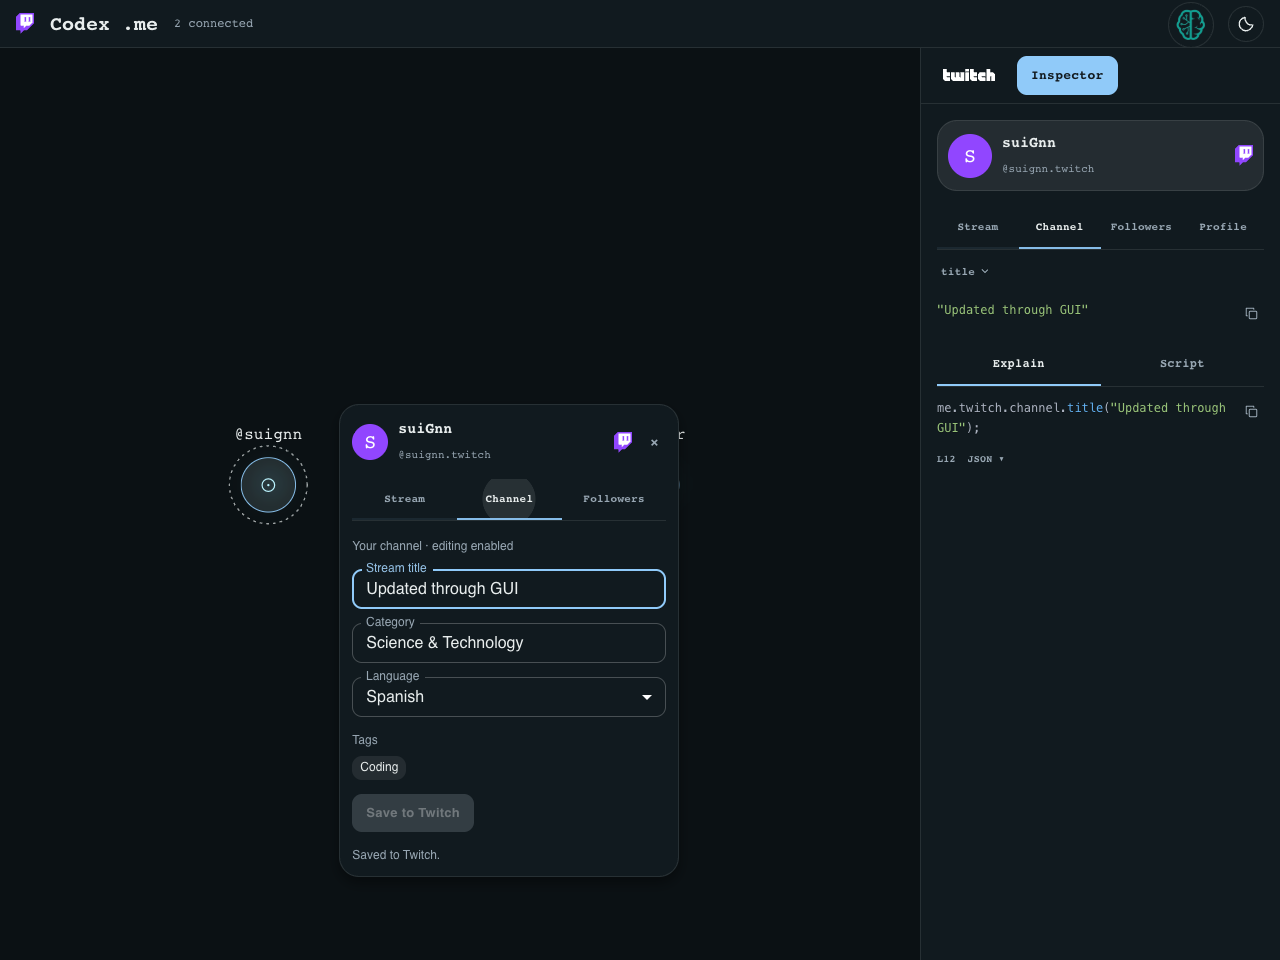
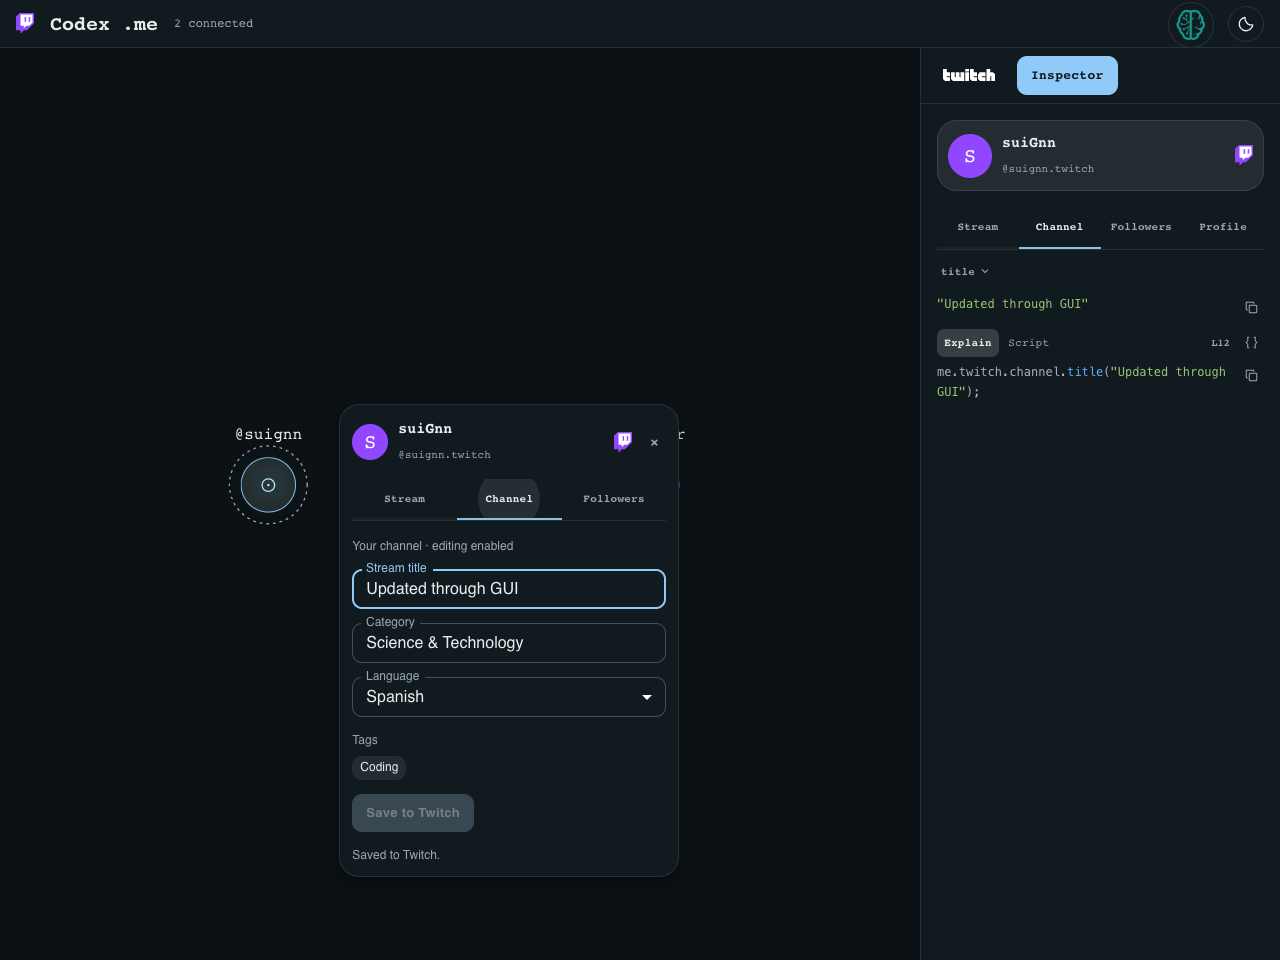
refactor: compact inspector modes source and trace controls

Changed region(s): [[0.7188, 0.3125, 0.9688, 0.4375], [0.9688, 0.3125, 1.0, 0.3438]]

diff --git a/overlay/kernel-console.js b/overlay/kernel-console.js
@@ -1,3 +1,4 @@
+import { KernelToolbar } from './kernel-toolbar.js';
 import { sourceDeclarations } from './kernel-source.js';
 const R = window.React, h = R.createElement, G = window.GUI;
 const { Box, Typography, Button } = G.Atoms;
@@ -24,7 +25,6 @@ const code = (source, language, numbered = false) => h(InlineCode, { source, lan
 function CodeLine({ value }) {
   return h(InlineCode, { source: JSON.stringify(value), language: 'json', copyLabel: 'Copy output' });
 }
-const tabs = ['Explain', 'Script'];
 function useQuery(kernel, path, operation, enabled) {
   const [result, setResult] = R.useState(null);
   const nodes = kernel.graph?.nodes || [], leaf = nodes.some(node => node.path === path);
@@ -62,7 +62,7 @@ export function KernelOutput({ kernel, path, compact = false }) {
   const output = useQuery(kernel, path, 'run', leaf);
   const state = kernel.sections?.[path.split('.')[1]];
   if (!leaf || state?.status === 'error') return h(Typography, { role: state?.status === 'error' ? 'alert' : 'status', sx: { ...mono, fontSize: 11, color: state?.status === 'error' ? 'error.main' : 'text.secondary', mb: 1 } }, state?.error || 'Loading Twitch…');
-  return h(Box, { component: 'section', 'aria-label': 'Output', sx: { ...codeStyle, mb: compact ? 0 : 2 } }, renderResult(output, 'run', kernel, path, leaf));
+  return h(Box, { component: 'section', 'aria-label': 'Output', sx: { ...codeStyle, mb: compact ? 0 : 1 } }, renderResult(output, 'run', kernel, path, leaf));
 }
 export function KernelConsole({ kernel, path }) {
   const [tab, setTab] = R.useState('Explain'), [jsonOpen, setJsonOpen] = R.useState(false);
@@ -79,21 +79,13 @@ export function KernelConsole({ kernel, path }) {
   const prefix = `console-${kernel.id}`;
   return h(Box, { 'data-kernel-console': kernel.id, sx: codeStyle },
     h(KernelOutput, { kernel, path }),
-    h(Box, { role: 'tablist', 'aria-label': 'Kernel views', sx: { display: 'flex', borderBottom: 1, borderColor: 'divider', mb: 1.5 } },
-      tabs.map(label => h(Button, { key: label, role: 'tab', id: `${prefix}-${label}`, 'aria-selected': tab === label, 'aria-controls': `${prefix}-panel`, tabIndex: tab === label ? 0 : -1,
-        onClick: () => setTab(label), onKeyDown: event => {
-          const index = tabs.indexOf(label);
-          const next = ['ArrowRight', 'ArrowLeft'].includes(event.key) ? (index + 1) % tabs.length : event.key === 'Home' ? 0 : event.key === 'End' ? tabs.length - 1 : null;
-          if (next === null) return;
-          event.preventDefault(); setTab(tabs[next]); event.currentTarget.parentElement.querySelectorAll('[role="tab"]')[next].focus();
-        }, sx: { ...mono, flex: 1, minWidth: 0, textTransform: 'none', fontSize: 12, borderRadius: 0, borderBottom: 2, borderColor: tab === label ? 'primary.main' : 'transparent', color: tab === label ? 'text.primary' : 'text.secondary' } }, label))),
+    h(KernelToolbar, { prefix, mode: tab, onMode: setTab, lines, location,
+      onSource: () => { setJump(value => value + 1); setTab('Script'); },
+      jsonOpen, onJson: () => setJsonOpen(value => !value) }),
     h(Box, { role: 'tabpanel', id: `${prefix}-panel`, 'aria-labelledby': `${prefix}-${tab}`, tabIndex: 0 },
       tab === 'Script' ? h(Box, { ref: scriptRef, 'data-me-script': kernel.id, 'data-source-lines': declarations.map(item => item.line).join(','), sx: highlights }, code(kernel.script, 'javascript', true))
         : h(R.Fragment, null,
-          declarations.length ? h(Box, { 'data-explain-source': path, 'data-source-lines': lines.join(','), sx: { mb: 1.5 } },
-            code(declarations.map(item => item.source).join('\n'), 'javascript'),
-            h(Box, { sx: { display: 'flex', alignItems: 'center', gap: 1, mt: 0.5 } },
-              h(G.Atoms.Tooltip, { title: `View in Script · ${location}`, describeChild: true }, h(Button, { size: 'small', 'aria-label': 'View in Script', onClick: () => { setJump(declarations[0].line); setTab('Script'); }, sx: { ...mono, minWidth: 0, px: 0, fontSize: 10, color: 'text.secondary', textTransform: 'none' } }, lines.length === 1 ? `L${lines[0]}` : `L${lines[0]}–${lines.at(-1)}`)),
-              h(Button, { size: 'small', 'aria-label': 'Explain JSON', 'aria-expanded': jsonOpen, onClick: () => setJsonOpen(value => !value), sx: { ...mono, minWidth: 0, px: 0.5, fontSize: 10, color: 'text.secondary', textTransform: 'none' } }, jsonOpen ? 'JSON ▴' : 'JSON ▾'))) : null,
+          declarations.length ? h(Box, { 'data-explain-source': path, 'data-source-lines': lines.join(','), sx: { mb: jsonOpen ? 1.25 : 0 } },
+            h(InlineCode, { source: declarations.map(item => item.source).join('\n'), language: 'javascript', copyLabel: 'Copy expression' })) : null,
           (jsonOpen || !declarations.length || explanation?.error) ? renderResult(explanation, 'explain', kernel, path, leaf) : null)));
 }

diff --git a/overlay/kernel-toolbar.js b/overlay/kernel-toolbar.js
@@ -1,0 +1,23 @@
+const R = window.React, h = R.createElement, G = window.GUI;
+const { Box, Button, Tooltip } = G.Atoms;
+const modes = ['Explain', 'Script'];
+const mono = { fontFamily: '"IBM Plex Mono", ui-monospace, monospace' };
+const action = { minWidth: 26, height: 28, p: 0.5, color: 'text.secondary' };
+
+// One compact row: readable mode choice, source location, optional raw trace.
+export function KernelToolbar({ prefix, mode, onMode, lines, location, onSource, jsonOpen, onJson }) {
+  return h(Box, { 'data-kernel-toolbar': true, sx: { display: 'flex', alignItems: 'center', gap: 0.5, minHeight: 28, mb: 0.75 } },
+    h(Box, { role: 'tablist', 'aria-label': 'Kernel views', sx: { display: 'inline-flex', gap: 0.25 } },
+      modes.map((label, index) => h(Button, { key: label, role: 'tab', id: `${prefix}-${label}`, 'aria-selected': mode === label, 'aria-controls': `${prefix}-panel`, tabIndex: mode === label ? 0 : -1,
+        onClick: () => onMode(label), onKeyDown: event => {
+          const next = ['ArrowRight', 'ArrowLeft'].includes(event.key) ? (index + 1) % modes.length : event.key === 'Home' ? 0 : event.key === 'End' ? modes.length - 1 : null;
+          if (next === null) return;
+          event.preventDefault(); onMode(modes[next]); event.currentTarget.parentElement.querySelectorAll('[role="tab"]')[next].focus();
+        }, sx: { ...mono, minWidth: 0, height: 28, px: 0.9, py: 0.25, fontSize: 11, lineHeight: 1.4, fontWeight: mode === label ? 600 : 400, textTransform: 'none', borderRadius: 0.75, bgcolor: mode === label ? 'action.selected' : 'transparent', color: mode === label ? 'text.primary' : 'text.secondary' } }, label))),
+    h(Box, { sx: { flex: 1 } }),
+    lines.length ? h(Tooltip, { title: `Go to source · ${location}`, describeChild: true },
+      h(Button, { size: 'small', 'aria-label': 'View in Script', onClick: onSource, sx: { ...action, ...mono, fontSize: 10, textTransform: 'none', px: 0.5 } }, lines.length === 1 ? `L${lines[0]}` : `L${lines[0]}–${lines.at(-1)}`)) : null,
+    mode === 'Explain' && lines.length ? h(Tooltip, { title: jsonOpen ? 'Hide JSON' : 'Show JSON', describeChild: true },
+      h(Button, { size: 'small', 'aria-label': 'Explain JSON', 'aria-expanded': jsonOpen, onClick: onJson, sx: { ...action, bgcolor: jsonOpen ? 'action.selected' : 'transparent' } },
+        h('svg', { width: 15, height: 15, viewBox: '0 0 20 20', fill: 'none', stroke: 'currentColor', strokeWidth: 1.4, 'aria-hidden': true }, h('path', { d: 'M7 3H5v5l-2 2 2 2v5h2M13 3h2v5l2 2-2 2v5h-2' })))) : null);
+}

diff --git a/overlay/kernel-graph.js b/overlay/kernel-graph.js
@@ -10,7 +10,7 @@ export function KnowledgeGraph({ graph, owner = '', path, selectPath, showFields
   const root = `twitch.${section}`, fields = pathChildren(graph?.nodes || [], root), parts = pathParts(path).slice(2);
   const prefix = R.useId();
   const go = value => { setMenu(null); selectPath(value); };
-  return h(Box, { 'data-knowledge-graph': true, 'data-kernel-path': path, 'data-kernel-owner': owner, 'data-me-address': `me://${owner}/${pathParts(path).join('/')}`, sx: { minWidth: 0, mb: 1.5 } },
+  return h(Box, { 'data-knowledge-graph': true, 'data-kernel-path': path, 'data-kernel-owner': owner, 'data-me-address': `me://${owner}/${pathParts(path).join('/')}`, sx: { minWidth: 0, mb: showFields ? 0.75 : 1.5 } },
     h(Box, { role: 'tablist', 'aria-label': 'Twitch sections', sx: { display: 'grid', gridTemplateColumns: `repeat(${resources.length},minmax(0,1fr))`, borderBottom: 1, borderColor: 'divider' } },
       resources.map((name, index) => h(Button, { key: name, role: 'tab', id: `${prefix}-${name}`, 'aria-controls': `${prefix}-fields`, 'aria-selected': section === name, tabIndex: section === name ? 0 : -1,
         onClick: () => go(`twitch.${name}`), onKeyDown: event => {

diff --git a/README.md b/README.md
@@ -55,7 +55,7 @@ The profile and bubble card use the label `@<login>.twitch` with the actual avat
 
 Clicking a bubble opens its controls beside the node, synchronized with the inspector. Both share the selected kernel/path. Focusing a channel field, clicking a follower count or clicking live/offline status selects its matching inspector leaf. Selecting that leaf in the inspector highlights the matching GUI control, without replacing the form. Stream is initially selected, showing Live now or Offline from the actual API response. Closing the card preserves selection. These controls remain outside the transparent OBS source.
 
-The inspector alone presents formatted whole-section JSON or a compact leaf value, with an icon-only Copy action and no surrounding code card. Its optional **All fields** dropdown narrows inspection to one leaf. It automatically reads `me(path)` from the existing server kernel. **Explain / Script** tabs below the output show the actual `me.explain(path)` JSON or the complete construction source, including expression, derivation and metadata from this.me 4.2.1. Tab selection persists across paths and kernels; obsolete query results are hidden. Explain is initially selected; arrow keys and Home/End navigate the tabs. Native GUI syntax highlighting is preserved without code-block headers, borders or backgrounds; copy actions use the overlapping-squares icon with accessible tooltips. Explain presents the matching syntax directly on the inspector background. Its compact **L…** link identifies the original source line(s), and **JSON** reveals the unmodified native explanation only when requested. The location link (**View in Script** to assistive technology) opens the complete, numbered script and scrolls to the highlighted declaration. Locations refer to the currently displayed reproducible construction script; they are not native VM execution frames or historical call stacks. Unrelated profile/section declarations are omitted from the Explain excerpt. The construction script is not re-executed, and arbitrary code/eval is not accepted. This object inspector is separate from GUI's general interface inspector and browser DOM developer tools. Face following changes presentation only.
+The inspector alone presents formatted whole-section JSON or a compact leaf value, with an icon-only Copy action and no surrounding code card. Its optional **All fields** dropdown narrows inspection to one leaf. It automatically reads `me(path)` from the existing server kernel. Compact **Explain / Script** controls below the output show the actual `me.explain(path)` JSON or the complete construction source, including expression, derivation and metadata from this.me 4.2.1. Tab selection persists across paths and kernels; obsolete query results are hidden. Explain is initially selected; arrow keys and Home/End navigate the tabs. Native GUI syntax highlighting is preserved without code-block headers, borders or backgrounds; copy actions use the overlapping-squares icon with accessible tooltips. Explain presents the matching syntax directly on the inspector background. Its compact **L…** link identifies the original source line(s), and the **{}** icon reveals the unmodified native explanation only when requested. The location link (**View in Script** to assistive technology) opens the complete, numbered script and scrolls to the highlighted declaration. Locations refer to the currently displayed reproducible construction script; they are not native VM execution frames or historical call stacks. Unrelated profile/section declarations are omitted from the Explain excerpt. The construction script is not re-executed, and arbitrary code/eval is not accepted. This object inspector is separate from GUI's general interface inspector and browser DOM developer tools. Face following changes presentation only.
 
 ### Permissions and optional channel editing
 

diff --git a/evidence/SESSION.md b/evidence/SESSION.md
@@ -495,3 +495,10 @@ Removed inspector code-card borders/backgrounds, repeated headers and native tex
 Follower count and stream status now select their actual leaf paths (twitch.followers.total and twitch.stream.live); channel fields already select their paths on focus. The selected path also highlights the corresponding count/status/form field when navigation originates from the inspector. There are no fabricated dependency edges or invented derived expressions for imported stored facts.
 
 Expanded offline server/browser integration passed, including GUI→leaf selection, inspector→GUI selected state, leaf values/native traces, icon-only Copy labels, exact source locations/highlight jumps, retained tab state and the existing permission/save checks. Real-browser verification clicked the public follower count and showed its scalar output and actual declaration without frames, with JSON initially collapsed. Screenshot: evidence/kernels/direct-gui-me.png. Current GhostShell theme preserved. No backend restart, native package edits, real channel writes, chat posts or OBS actions. The temporary reference tab was closed.
+
+
+### 2026-10-29 — ergonomic inspector toolbar refactor
+
+Replaced the full-width, underlined Explain / Script bar with a compact 28px mode selector. Grouped source location and the raw-JSON toggle into the same row, removing the extra actions row below the expression. The JSON control is now a braces SVG with Show JSON / Hide JSON tooltips; mode names remain readable, source links retain Go to source tooltips, and copy actions remain icon-only. Tightened spacing between field navigation, output and expression without introducing new headings or containers. Extracted keyboard-accessible mode/source/trace controls into overlay/kernel-toolbar.js, leaving the query/rendering logic separate. Repeated source jumps now use an independent trigger and the current declaration location.
+
+Expanded existing offline browser/server verification passed: the mode selector occupies less than 70% of the row and no more than 32px height, mode order/default/tab persistence remain intact, JSON is icon-only, and source jumping, highlighted lines, GUI/path synchronization, copy labels and permission/save behavior still work. Real-browser review verified the compact follower leaf and the full stream section in the owner's current GhostShell theme. Screenshot: evidence/kernels/compact-inspector-toolbar.png. No server restart, native kernel changes, actual channel writes, chat posts or OBS operations.
